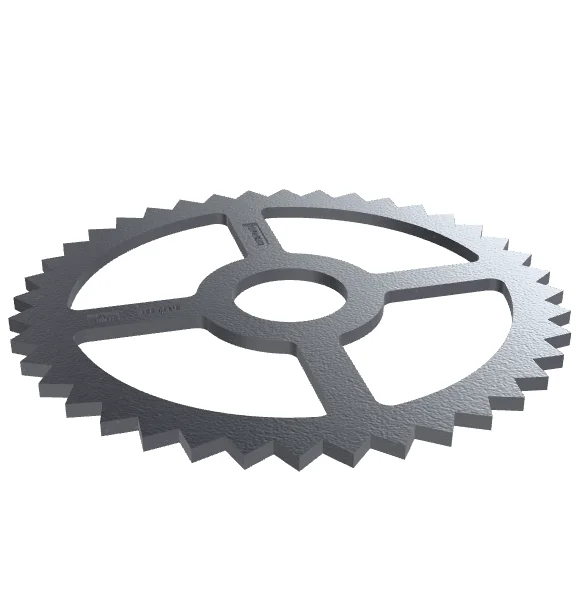
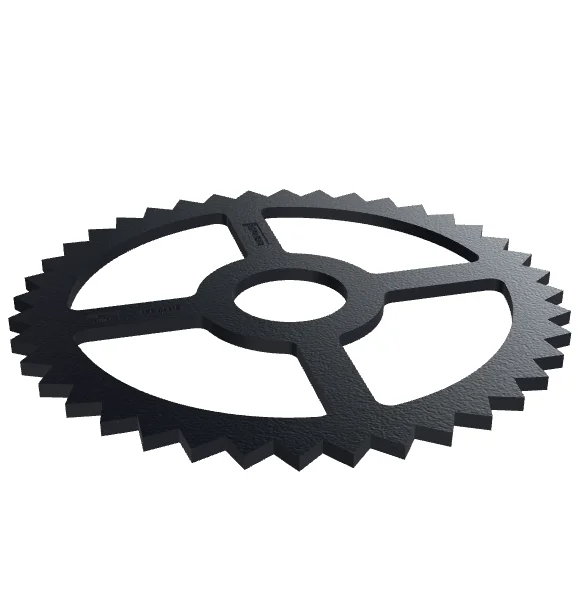
fix: Blacker cast iron - lower exposure (1.2) for the black models, keep 3.25 for galvanised

Changed region(s): [[0.0, 0.3, 0.9931, 0.78]]

diff --git a/catalogue/catalogue.js b/catalogue/catalogue.js
@@ -93,7 +93,7 @@ function createCard(p) {
   mv.setAttribute('camera-controls', '');
   mv.setAttribute('touch-action', 'none'); // one finger rotates freely in every direction
   mv.setAttribute('environment-image', ENV_URL); // studio HDRI: gives the cast iron real depth and highlights
-  mv.setAttribute('exposure', '3.25'); // same lighting as the poster thumbnails
+  mv.setAttribute('exposure', String(p.exposure ?? 3.25)); // same lighting as the poster thumbnails (black painted iron needs less light to stay black)
   mv.setAttribute('environment-intensity', '2.45');
   mv.setAttribute('tone-mapping', 'neutral');
   mv.setAttribute('camera-orbit', p.orbit ?? '35deg 62deg auto'); // per product: the text cast on some models reads best from the front

diff --git a/gr/index.html b/gr/index.html
@@ -29,7 +29,7 @@
             camera-controls
             touch-action="none"
             environment-image="/hdri/studio_small_08_1k.hdr"
-            exposure="3.25"
+            exposure="1.2"
             environment-intensity="2.45"
             tone-mapping="neutral"
             camera-target="auto auto auto"

diff --git a/tree-grate/index.html b/tree-grate/index.html
@@ -30,7 +30,7 @@
             touch-action="none"
             auto-rotate
             environment-image="/hdri/studio_small_08_1k.hdr"
-            exposure="3.25"
+            exposure="1.2"
             environment-intensity="2.45"
             tone-mapping="neutral"
             camera-target="auto auto auto"

diff --git a/index.html b/index.html
@@ -30,7 +30,7 @@
             touch-action="none"
             auto-rotate
             environment-image="/hdri/studio_small_08_1k.hdr"
-            exposure="3.25"
+            exposure="1.2"
             environment-intensity="2.45"
             tone-mapping="neutral"
             camera-target="0m 0.3m 0m"
